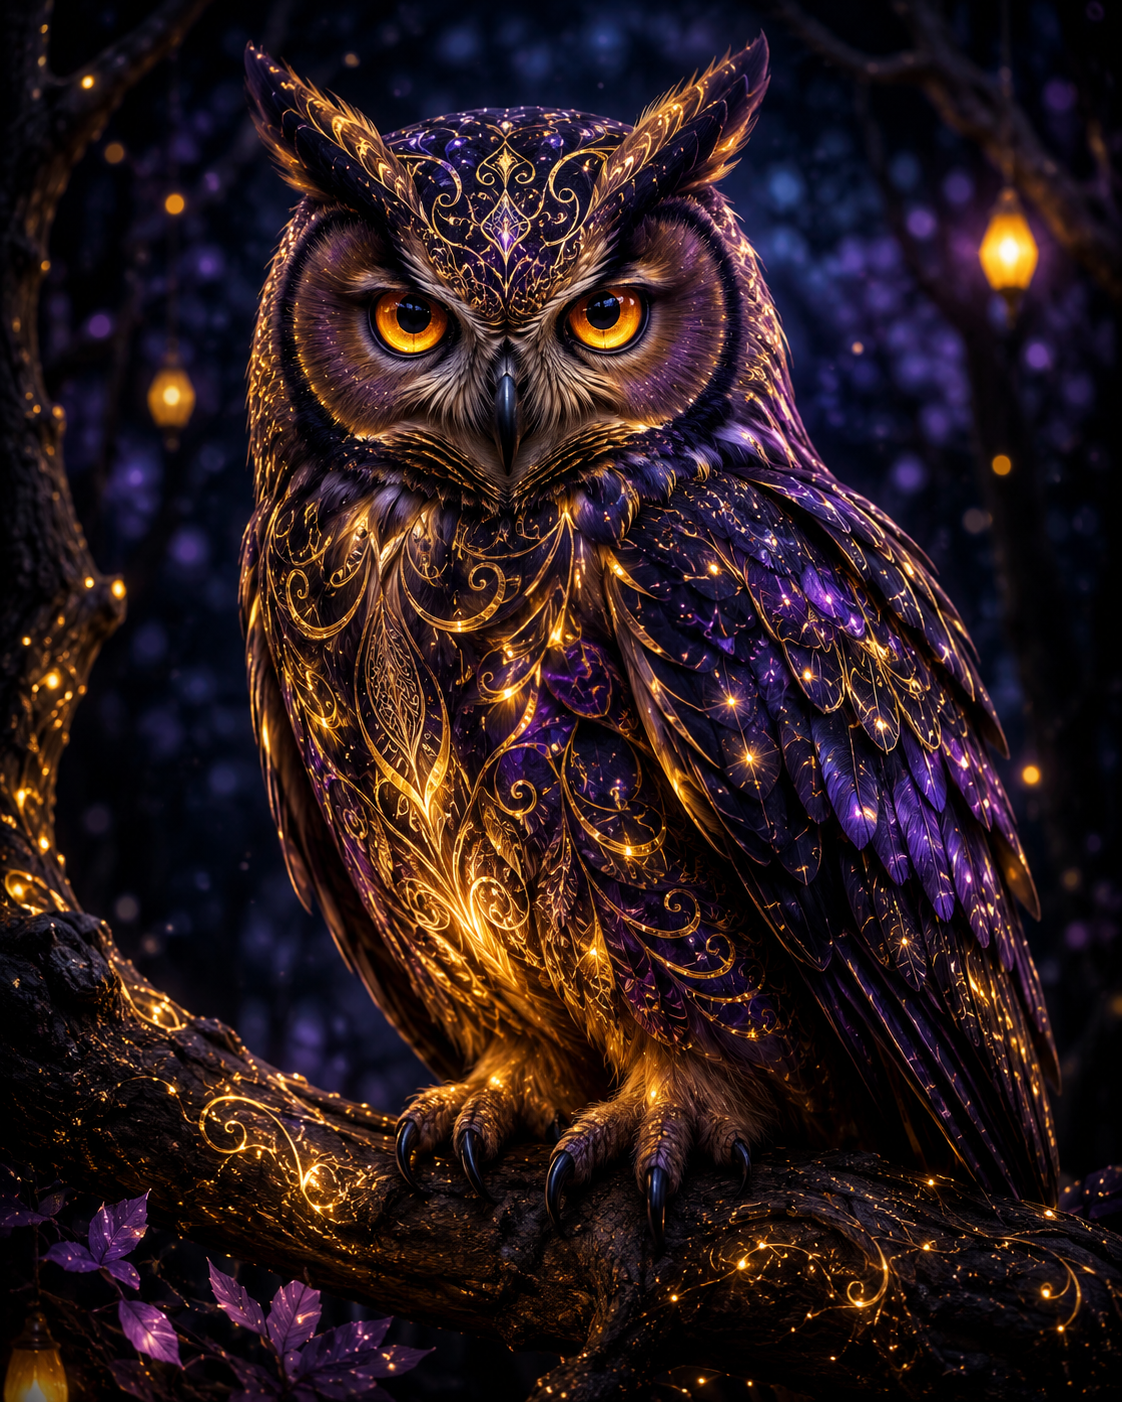
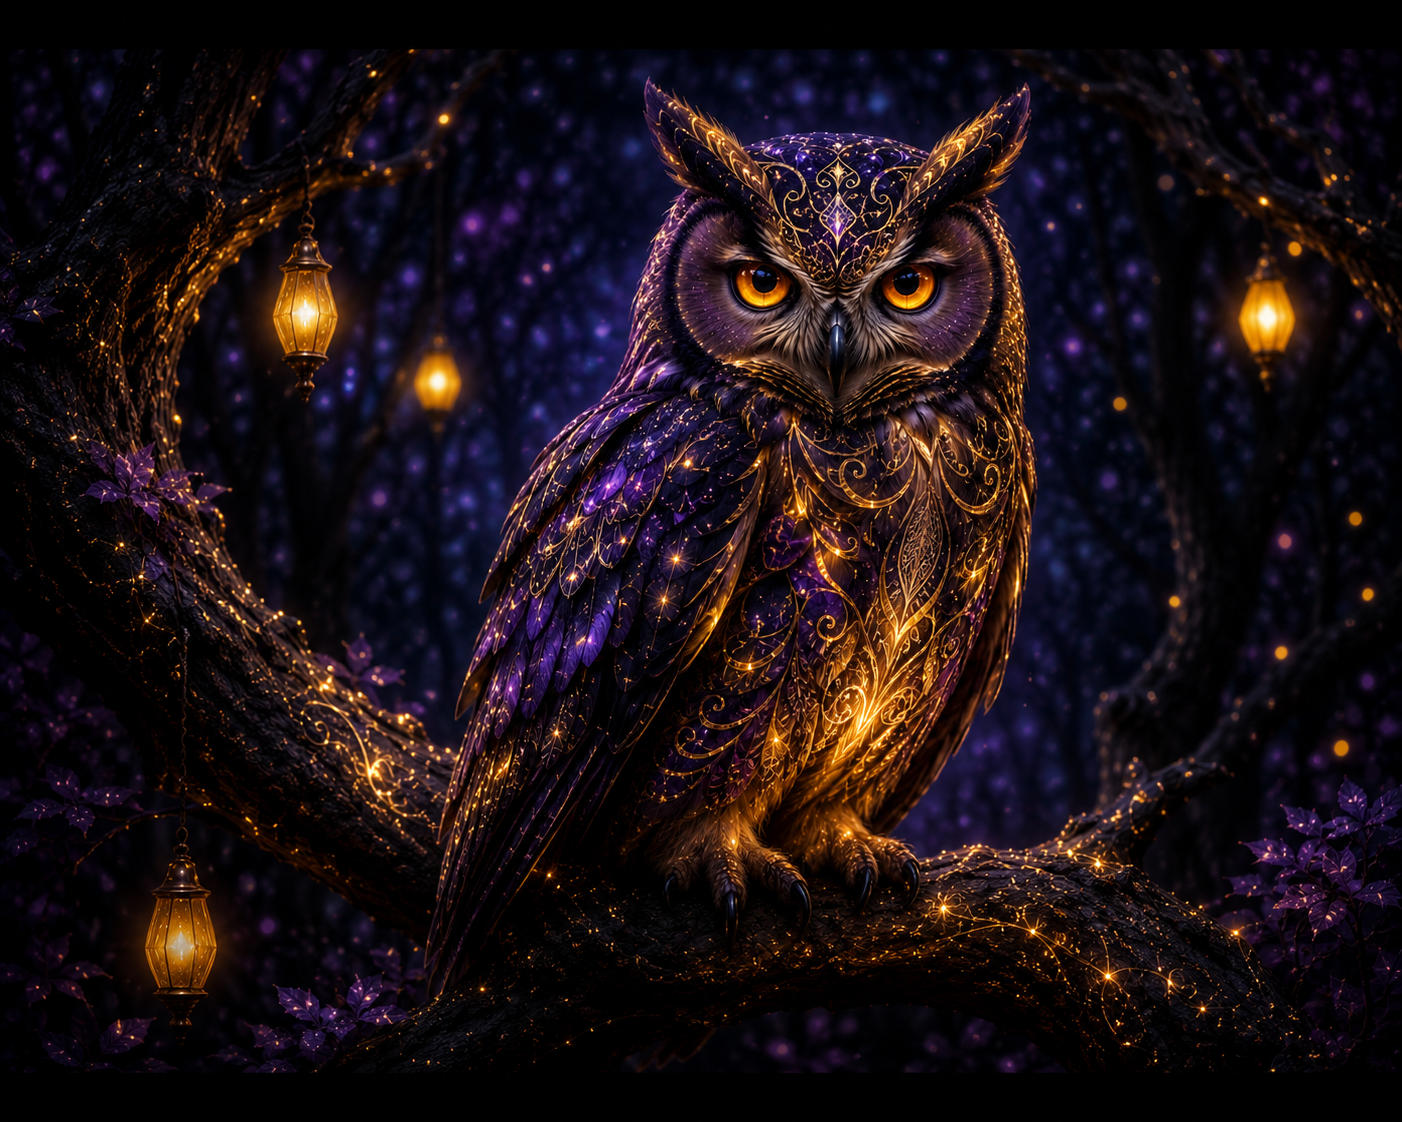
feat img: changed 3 vertical img to horizontal

diff --git a/css/style.css b/css/style.css
@@ -1,8 +1,16 @@
-.flexGallery {
-  display: flex;
-  flex-wrap: wrap;
-  justify-content: center;
-  gap: 10px;
+body {
+    font-family: Arial, sans-serif;
+    margin: 0;
+    padding: 0;
+    background-color: #0d1117;
+    color: #c9d1d9;
+}
+
+.galleryContainer {
+    display: flex;
+    flex-wrap: wrap;
+    justify-content: center;
+    gap: 10px;
 }
 
 .galleryItem {

diff --git a/index.html b/index.html
@@ -9,7 +9,7 @@
 <body>
     <section>
         <h1>Responsive Image Gallery</h1>
-    <div class="flexGallery">
+    <div class="galleryContainer">
         <figure class="galleryItem">
             <img src="img/blueForest.png" alt="Shyning Blue Forest">
             <figcaption>A magical bio-luminescent forest at night, ancient trees with glowing neon blue and purple moss, ethereal atmosphere, cinematic lighting, ultra-detailed, 8k.</figcaption>